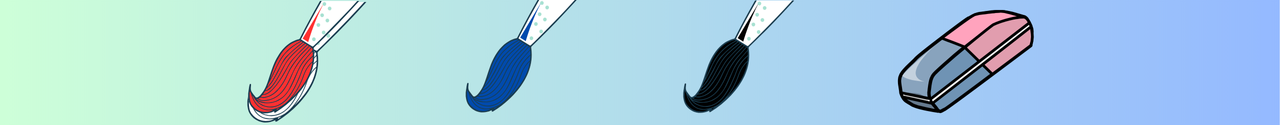
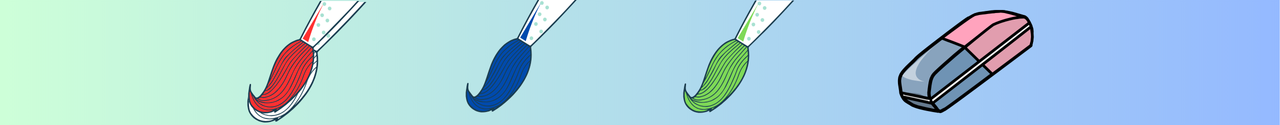
Changed Header images to have green color instead of black, added update every two frames to avoid freeze due to calculations

Changed region(s): [[0.5312, 0.192, 0.5938, 0.888]]

diff --git a/main.py b/main.py
@@ -7,11 +7,8 @@ from utils import only, isInRange
 header_folder_path = "Assets/Headers"
 header_files = os.listdir(header_folder_path)
 
-headers = []
-for header_file in header_files:
-    if header_file.startswith("Header") and header_file.endswith(".png"):
-        image = cv2.imread(f'{header_folder_path}/{header_file}')
-        headers.append(image)
+headers = [cv2.resize(cv2.imread(f'{header_folder_path}/{header_file}'), (1280, 125))
+           for header_file in header_files if header_file.startswith("Header") and header_file.endswith(".png")]
 
 current_header = headers[0]
 
@@ -29,11 +26,14 @@ if not cap.isOpened():
     print("Error: Could not open video.")
     exit()
 
-tracker = ht.HandDetector(detectionCon=0.8)
+tracker = ht.HandDetector(detectionCon=0.6)
 canvas = np.zeros((720, 1280, 3), np.uint8)
 
 # previous positions saved for drawing lines
 xp, yp = None, None
+
+frame_count = 0
+process_interval = 2 # Process every 2nd frame
 
 while True:
     success, frame = cap.read()
@@ -43,52 +43,53 @@ while True:
 
     frame = cv2.flip(frame, 1)
 
-    frame = tracker.findHands(frame)
-    lmList = tracker.findPosition(frame, draw=False)
+    if frame_count % process_interval == 0:
+        frame = tracker.findHands(frame, draw=False)
+        lmList = tracker.findPosition(frame, draw=False)
 
-    if len(lmList) == 0:
-        continue
+        if len(lmList) != 0:
+            x1, y1 = lmList[8][1:]
+            x2, y2 = lmList[12][1:]
 
-    x1, y1 = lmList[8][1:]
-    x2, y2 = lmList[12][1:]
+            fingers = tracker.fingersUp()
 
-    fingers = tracker.fingersUp()
+            if only(fingers, [1, 2]): # Selection mode
+                xp, yp = None, None
 
-    if only(fingers, [1, 2]): # Selection mode
-        xp, yp = None, None
+                if y1 < 125: 
+                    if isInRange(x1, 188.75, 303.45):
+                        current_header = headers[1]
+                        current_color = (0, 0, 255)
+                        current_thickness = brush_thickness
+                    elif isInRange(x1, 406.25, 520.95):
+                        current_header = headers[2]
+                        current_color = (255, 0, 0)
+                        current_thickness = brush_thickness
+                    elif isInRange(x1, 623.75, 738.45):
+                        current_header = headers[3]
+                        current_color = (0, 255, 0)
+                        current_thickness = brush_thickness
+                    elif isInRange(x1, 828.95, 966.25):
+                        current_header = headers[4]
+                        current_color = (0, 0, 0)
+                        current_thickness = eraser_thickness
 
-        if y1 < 125: 
-            if isInRange(x1, 188.75, 303.45):
-                current_header = headers[1]
-                current_color = (0, 0, 255)
-                current_thickness = brush_thickness
-            elif isInRange(x1, 406.25, 520.95):
-                current_header = headers[2]
-                current_color = (255, 0, 0)
-                current_thickness = brush_thickness
-            elif isInRange(x1, 623.75, 738.45):
-                current_header = headers[3]
-                current_color = (0, 255, 0)
-                current_thickness = brush_thickness
-            elif isInRange(x1, 828.95, 966.25):
-                current_header = headers[4]
-                current_color = (0, 0, 0)
-                current_thickness = eraser_thickness
+                if current_color:
+                    cv2.rectangle(frame, (x1, y1-30), (x2, y2+30), current_color, cv2.FILLED)
+                
+            elif only(fingers, [1]): # Draw mode
+                if current_color:
+                    cv2.circle(frame, (x1, y1), 15, current_color, cv2.FILLED)
 
-        if current_color:
-            cv2.rectangle(frame, (x1, y1-30), (x2, y2+30), current_color, cv2.FILLED)
-        
-    elif only(fingers, [1]): # Draw mode
-        if current_color:
-            cv2.circle(frame, (x1, y1), 15, current_color, cv2.FILLED)
-
-            if xp is not None and yp is not None:
-                cv2.line(frame, (xp, yp), (x1, y1), current_color, current_thickness)
-                cv2.line(canvas, (xp, yp), (x1, y1), current_color, current_thickness)
-            
-            xp, yp = x1, y1
-    else:
-        xp, yp = None, None
+                    if xp is not None and yp is not None:
+                        cv2.line(canvas, (xp, yp), (x1, y1), current_color, current_thickness)
+                    
+                    xp, yp = x1, y1
+            else:
+                xp, yp = None, None
+    
+    if xp is not None and yp is not None:
+        cv2.circle(frame, (xp, yp), 15, current_color, cv2.FILLED)
     
     grayImg = cv2.cvtColor(canvas, cv2.COLOR_BGR2GRAY)
     _, imgInv = cv2.threshold(grayImg, 50, 255, cv2.THRESH_BINARY_INV)
@@ -99,7 +100,11 @@ while True:
 
     frame[0:125, 0:1280] = current_header
     cv2.imshow("Image", frame)
-    cv2.waitKey(1)
+
+    if cv2.waitKey(1) & 0xFF == ord('q'):
+        break
+
+    frame_count += 1
 
 cap.release()
 cv2.destroyAllWindows()
